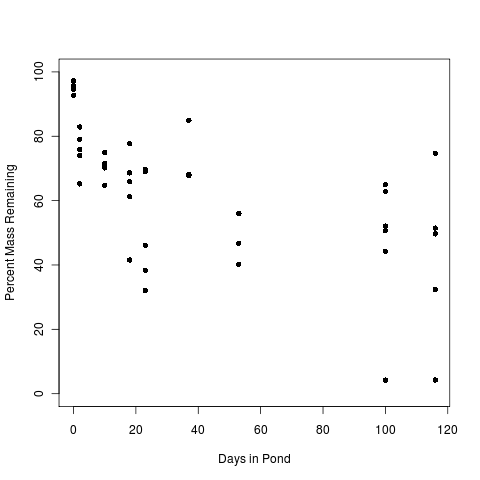
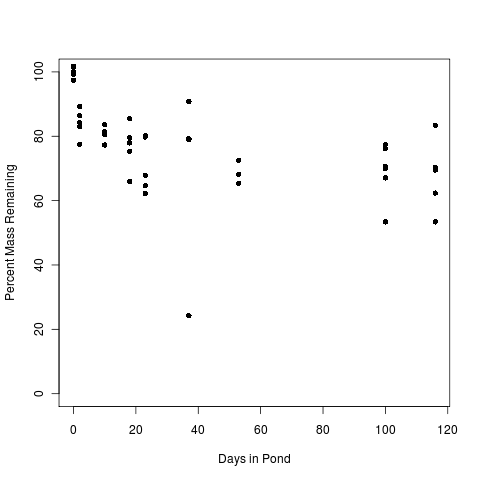
corrected error in code calculating the proportion of mass remaining.  I left the code eliminating negative proportions in the analysis because this limits the plot ranges to only the dates where we have AFDM but does not remove any acutal data points.

diff --git a/lab_notebook_entries/data_analysis/code/Litter_Decomp_2013-14_analysis.md b/lab_notebook_entries/data_analysis/code/Litter_Decomp_2013-14_analysis.md
@@ -8,7 +8,7 @@ The experiment was to assess the loss of mass from leaves in 3 ponds in Farmvill
 
 * Created 19 Feb 2014
 
-* Modified 23 March 2014
+* Modified 24 March 2014
 
 ## Author
 
@@ -37,15 +37,12 @@ KF
 
 ### Calculate Percent Mass Remaining
 
-In all of the calculations I remove any observations where the proportion of mass remaining is < 0.  It is not clear where the errors are occuring to produce there impossible values. 
-
 #### Daulton Pond
 
     T0.DP <- mean(leaf$AFDM[leaf$lake == "Daulton Pond" & leaf$days == 0], na.rm = T)
-    prop.rem.DP <- 1 - ((T0.DP - leaf$AFDM[leaf$lake == "Daulton Pond"]) / leaf$AFDM[leaf$lake == "Daulton Pond"])
+    prop.rem.DP <- 1 - ((T0.DP - leaf$AFDM[leaf$lake == "Daulton Pond"]) / T0.DP)
 
-
-    day.axis.DP <- leaf$days[leaf$lake == "Daulton Pond"] #create vector for x axis so I can deletet obs 17 and 25
+    day.axis.DP <- leaf$days[leaf$lake == "Daulton Pond"] 
 
     plot(prop.rem.DP[prop.rem.DP > 0] * 100 ~ day.axis.DP[prop.rem.DP > 0], xlab = "Days in Pond", ylab = "Percent Mass Remaining", ylim = c(0, 100), pch = 16)
     dev.copy(png, "./output/plots/DP_decomp_mass_remain.png")
@@ -64,23 +61,24 @@ _Percent leaf pack mass remining in Daulton Pond by days in the pond_
     summary(DP.k)
 
 
+
 Call:
 lm(formula = log(prop.rem.DP[prop.rem.DP > 0]) ~ day.axis.DP[prop.rem.DP > 
     0])
 
 Residuals:
       Min        1Q    Median        3Q       Max 
--0.605737 -0.182842  0.004216  0.155271  0.402051 
+-0.410642 -0.082346  0.001307  0.084595  0.269229 
 
 Coefficients:
-                           Estimate Std. Error t value Pr(>|t|)    
-(Intercept)               -0.379269   0.073907  -5.132 1.47e-05 ***
-day.axis[prop.rem.DP > 0] -0.009252   0.003244  -2.852  0.00767 ** 
+                              Estimate Std. Error t value Pr(>|t|)    
+(Intercept)                  -0.245917   0.043727  -5.624 2.92e-06 ***
+day.axis.DP[prop.rem.DP > 0] -0.005564   0.001937  -2.872  0.00707 ** 
 
-Residual standard error: 0.2715 on 31 degrees of freedom
+Residual standard error: 0.1624 on 33 degrees of freedom
   (35 observations deleted due to missingness)
-Multiple R-squared: 0.2078,	Adjusted R-squared: 0.1823 
-F-statistic: 8.133 on 1 and 31 DF,  p-value: 0.007668 
+Multiple R-squared:   0.2,	Adjusted R-squared: 0.1758 
+F-statistic:  8.25 on 1 and 33 DF,  p-value: 0.00707 
 
 ~~~~
 
@@ -97,9 +95,9 @@ _Natural log of proportion of leaf pack mass remining in Daulton Pond by days in
 #### Campus Pond
 
     T0.CP <- mean(leaf$AFDM[leaf$lake == "Campus Pond" & leaf$days == 0], na.rm = T)
-    prop.rem.CP <- 1 - ((T0.DP - leaf$AFDM[leaf$lake == "Campus Pond"]) / leaf$AFDM[leaf$lake == "Campus Pond"])
+    prop.rem.CP <- 1 - ((T0.DP - leaf$AFDM[leaf$lake == "Campus Pond"]) / T0.CP)
 
-    day.axis.CP <- leaf$days[leaf$lake == "Campus Pond"] #create vector for x axis so I can delete negative proportions
+    day.axis.CP <- leaf$days[leaf$lake == "Campus Pond"] 
 
     plot(prop.rem.CP[prop.rem.CP > 0] * 100 ~ day.axis.CP[prop.rem.CP > 0], xlab = "Days in Pond", ylab = "Percent Mass Remaining", ylim = c(0, 100), pch = 16)
     dev.copy(png, "./output/plots/CP_decomp_mass_remain.png")
@@ -124,17 +122,17 @@ lm(formula = log(prop.rem.CP[prop.rem.CP > 0]) ~ day.axis.CP[prop.rem.CP >
 
 Residuals:
      Min       1Q   Median       3Q      Max 
--2.09547 -0.14371  0.08088  0.25339  1.26342 
+-0.35525 -0.10974 -0.02062  0.06692  1.01198 
 
 Coefficients:
-                              Estimate Std. Error t value Pr(>|t|)  
-(Intercept)                  -0.353964   0.133364  -2.654   0.0124 *
-day.axis.CP[prop.rem.CP > 0] -0.009716   0.005104  -1.904   0.0663 .
+                              Estimate Std. Error t value Pr(>|t|)    
+(Intercept)                  -0.228854   0.059056  -3.875 0.000479 ***
+day.axis.CP[prop.rem.CP > 0] -0.003842   0.002051  -1.874 0.069864 .  
 
-Residual standard error: 0.5343 on 31 degrees of freedom
+Residual standard error: 0.2402 on 33 degrees of freedom
   (35 observations deleted due to missingness)
-Multiple R-squared: 0.1047,	Adjusted R-squared: 0.07578 
-F-statistic: 3.624 on 1 and 31 DF,  p-value: 0.06628 
+Multiple R-squared: 0.09615,	Adjusted R-squared: 0.06876 
+F-statistic:  3.51 on 1 and 33 DF,  p-value: 0.06986 
 
 ~~~~
 
@@ -151,7 +149,7 @@ _Natural log of proportion of leaf pack mass remining in Campus Pond by days in 
 #### Lancer Park Pond
 
     T0.LPP <- mean(leaf$AFDM[leaf$lake == "Lancer Park Pond" & leaf$days == 0], na.rm = T)
-    prop.rem.LPP <- 1 - ((T0.DP - leaf$AFDM[leaf$lake == "Lancer Park Pond"]) / leaf$AFDM[leaf$lake == "Lancer Park Pond"])
+    prop.rem.LPP <- 1 - ((T0.LPP - leaf$AFDM[leaf$lake == "Lancer Park Pond"]) / T0.LPP)
 
     day.axis.LPP <- leaf$days[leaf$lake == "Lancer Park Pond"]
 
@@ -172,23 +170,24 @@ _Percent leaf pack mass remining in Lancer Park Pond by days in the pond_
     summary(LPP.k)
 
 
+
 Call:
 lm(formula = log(prop.rem.LPP[prop.rem.LPP > 0]) ~ day.axis.LPP[prop.rem.LPP > 
     0])
 
 Residuals:
      Min       1Q   Median       3Q      Max 
--2.13038 -0.06648  0.05756  0.21872  0.87174 
+-1.15079 -0.04926  0.01448  0.08023  0.57042 
 
 Coefficients:
-                                Estimate Std. Error t value Pr(>|t|)    
-(Intercept)                    -0.246801   0.121423  -2.033 0.048607 *  
-day.axis.LPP[prop.rem.LPP > 0] -0.007903   0.002074  -3.811 0.000457 ***
+                                 Estimate Std. Error t value Pr(>|t|)    
+(Intercept)                    -0.1899167  0.0494571  -3.840 0.000409 ***
+day.axis.LPP[prop.rem.LPP > 0] -0.0020857  0.0008505  -2.452 0.018433 *  
 
-Residual standard error: 0.5669 on 41 degrees of freedom
+Residual standard error: 0.2325 on 42 degrees of freedom
   (26 observations deleted due to missingness)
-Multiple R-squared: 0.2615,	Adjusted R-squared: 0.2435 
-F-statistic: 14.52 on 1 and 41 DF,  p-value: 0.0004568 
+Multiple R-squared: 0.1253,	Adjusted R-squared: 0.1044 
+F-statistic: 6.014 on 1 and 42 DF,  p-value: 0.01843 
 
 ~~~~
 
